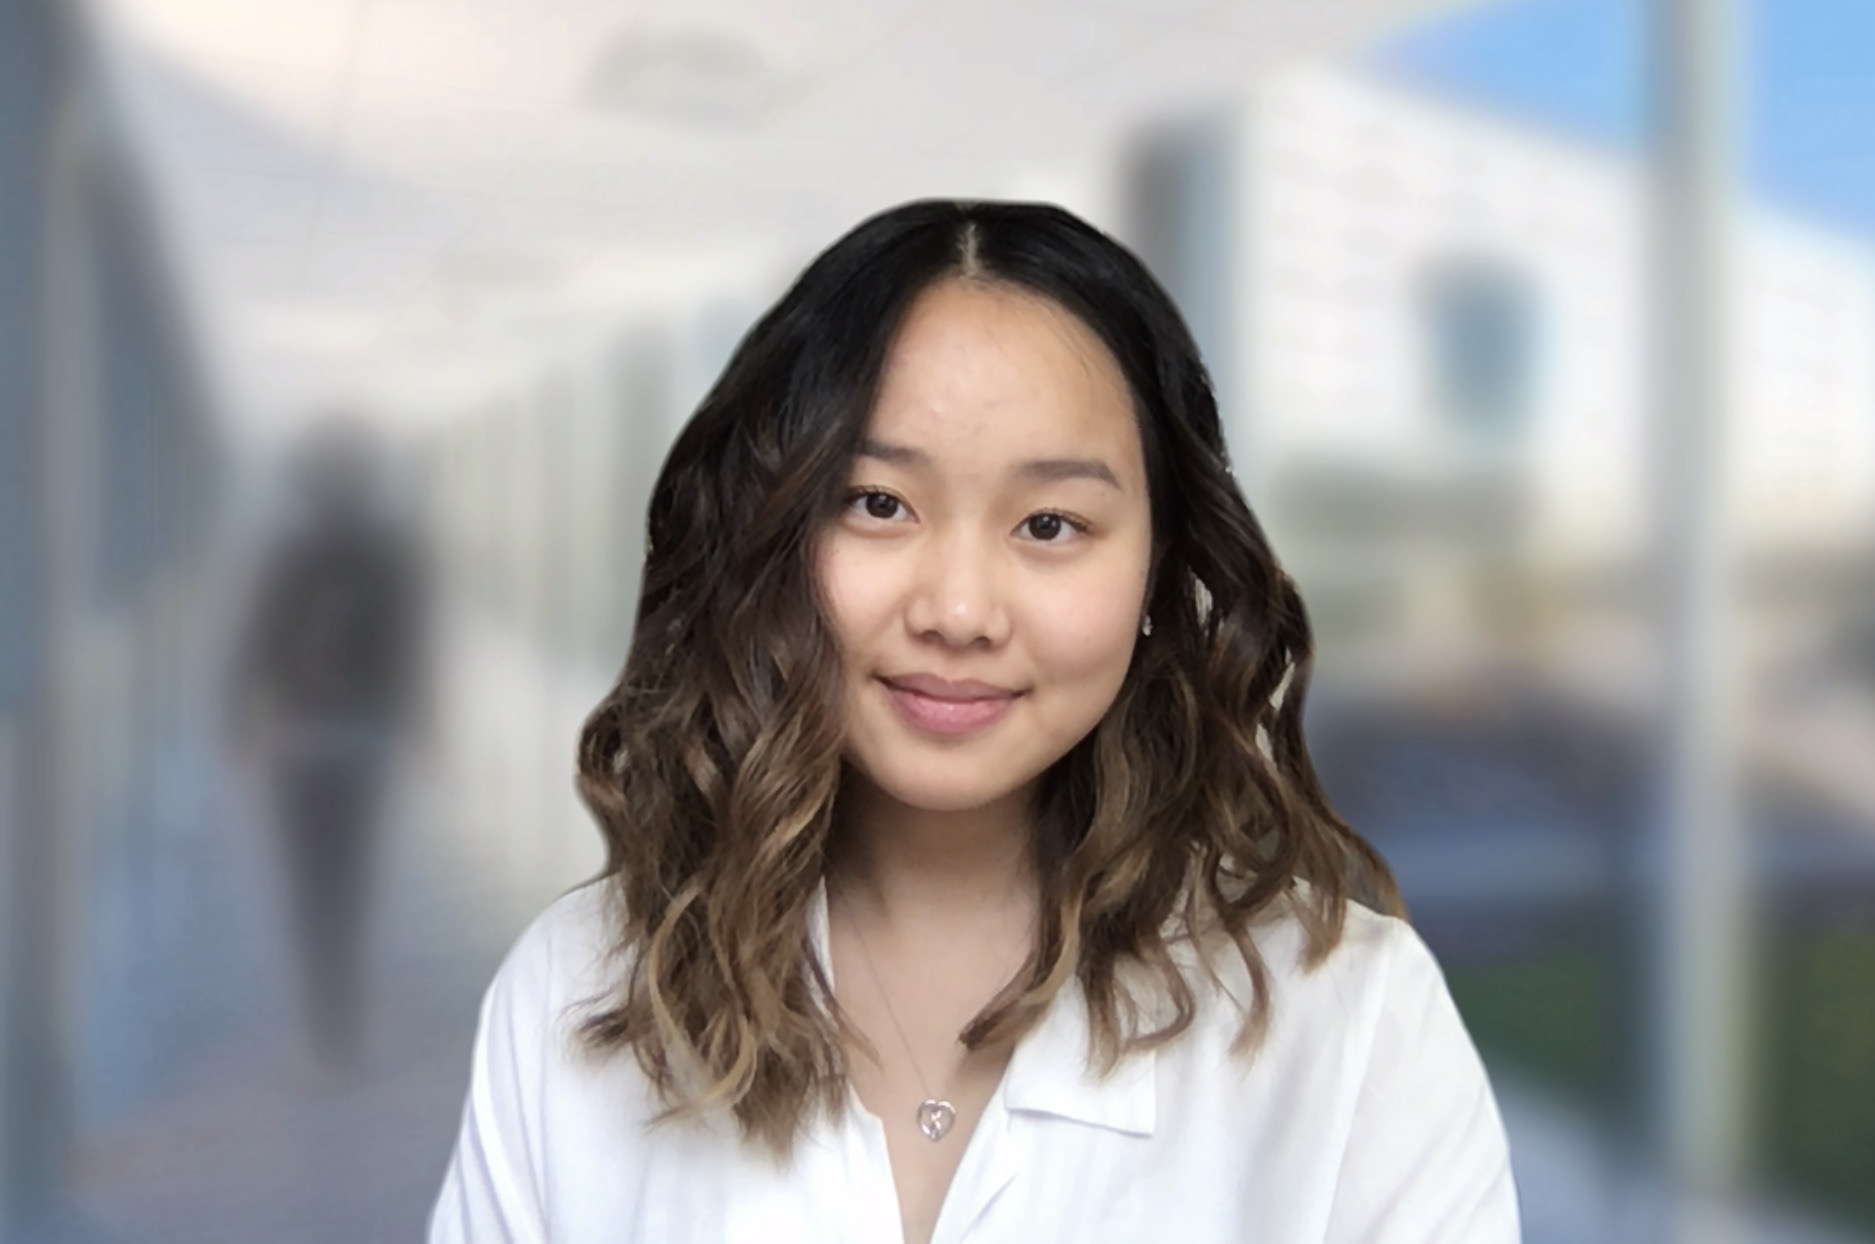
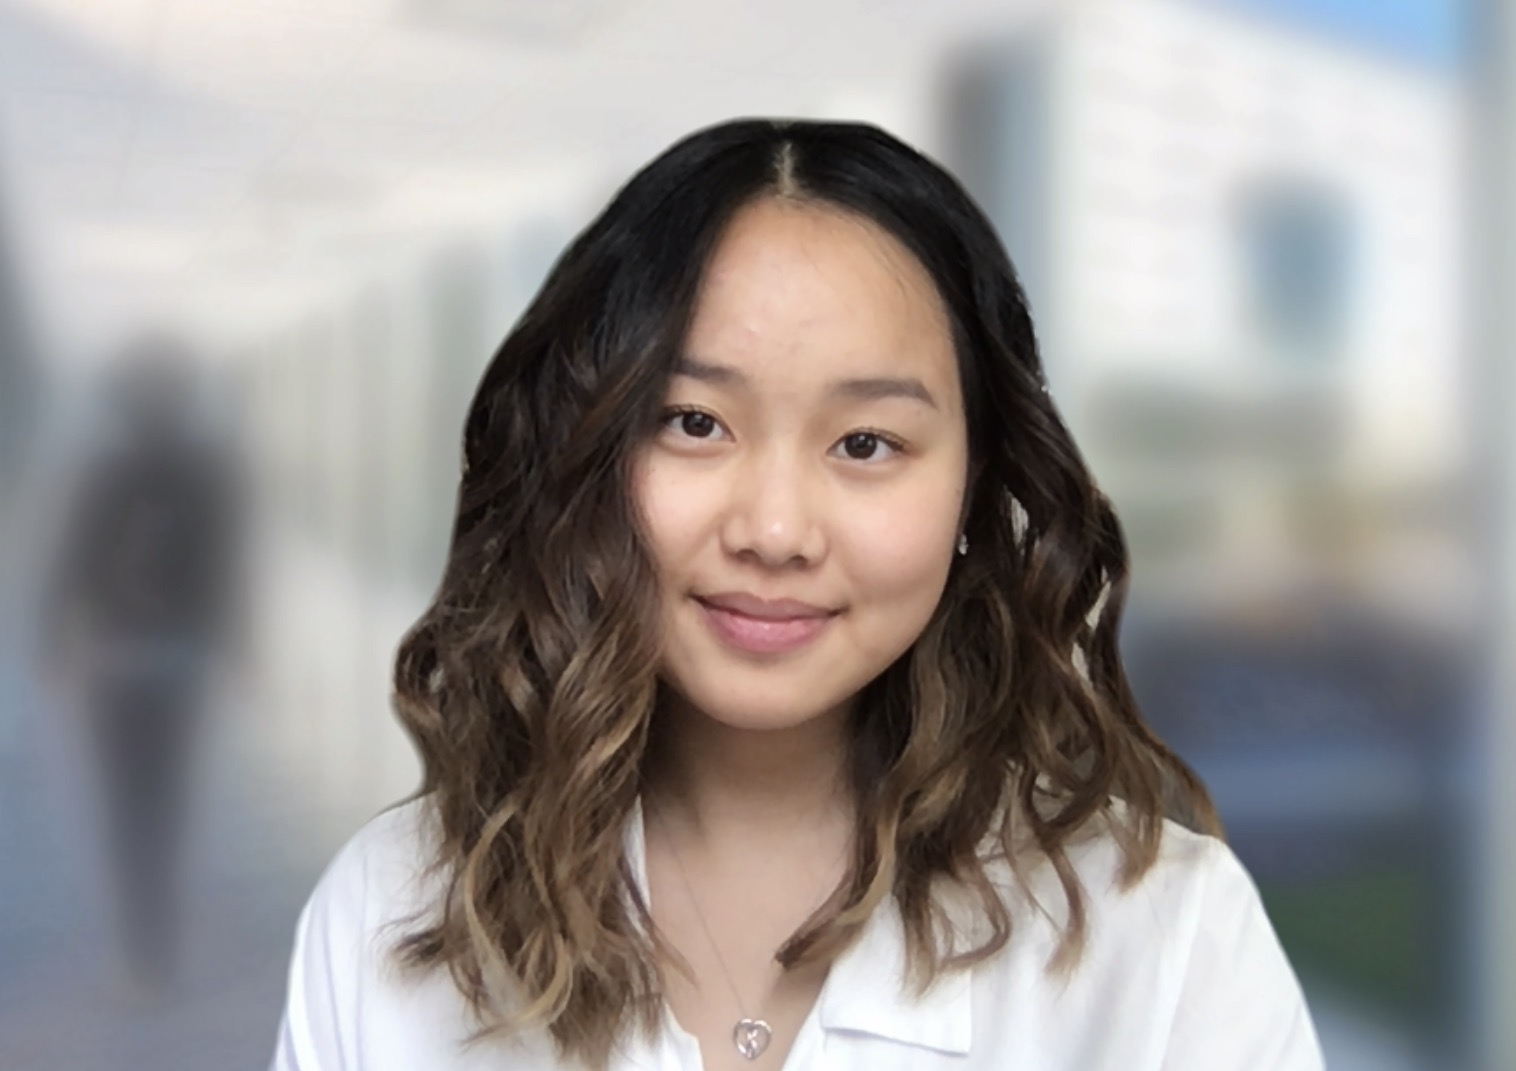
Clean up photos

diff --git a/js/team.js b/js/team.js
@@ -1,5 +1,5 @@
 var HTMLMemberName = '<div class="member-description"><h5 class="member-name">%data%%linkedin_data%</h5><div class="short-divider"></div>';
-var HTMLLinkedInIcon = '&nbsp<img src="img/linkedin.svg" alt="LinkedIn" onclick="window.open(\'%data%\',\'mywindow\');" style="cursor: pointer; vertical-align: 0px;" width="18" height="18"/>'
+var HTMLLinkedInIcon = '&nbsp<img src="img/linkedin.svg" alt="LinkedIn" onclick="window.open(\'%data%\',\'mywindow\');" style="cursor: pointer; vertical-align: 0px;" width="16" height="16"/>'
 var HTMLPhoto = '<div class="col-md-4 event-container subteam-member event"><div class="event"><div class="member-photo" style="background-image:url(%data%); background-position: center; background-size: cover;border-radius: 0px 0px 0 0;"></div>';
 var HTMLPosition = '<h5 class="event-time">%data%</h5>';
 var HTMLProgram = '<h5 class="event-time">%data%</h5></div></div></div>';
@@ -33,7 +33,7 @@ var members = [
     name: "Margaret S.",
     position: "Vice President External",
     program: "2A Pharmacy",
-    image: "img/margret_su.jpeg",
+    image: "img/margaret_su.png",
     linkedin: "https://www.linkedin.com/in/margaretsu/"
 },
 {
@@ -75,18 +75,18 @@ var members = [
     name: "Andreea P.",
     position: "Event Coordinator",
     program: "4A Biomedical Science",
-    image: "img/andreea.jpeg",
+    image: "img/andreea2.jpeg",
     linkedin: "https://www.linkedin.com/in/andreeapalage/"
 },
 {
     name: "Tong Yin H.",
     position: "Event Coordinator",
     program: "1A Systems Design Engineering",
-    image: "img/tong_yin_han.jpeg",
+    image: "img/tong_yin.jpeg",
     linkedin: "https://www.linkedin.com/in/tongyin-han/"
 },
 {
-    name: "Helena S.L.",
+    name: "Helena L.",
     position: "Marketing",
     program: "2B Science and Business - Biochemistry Specialization",
     image: "img/helena_seung-min_lee.png",
